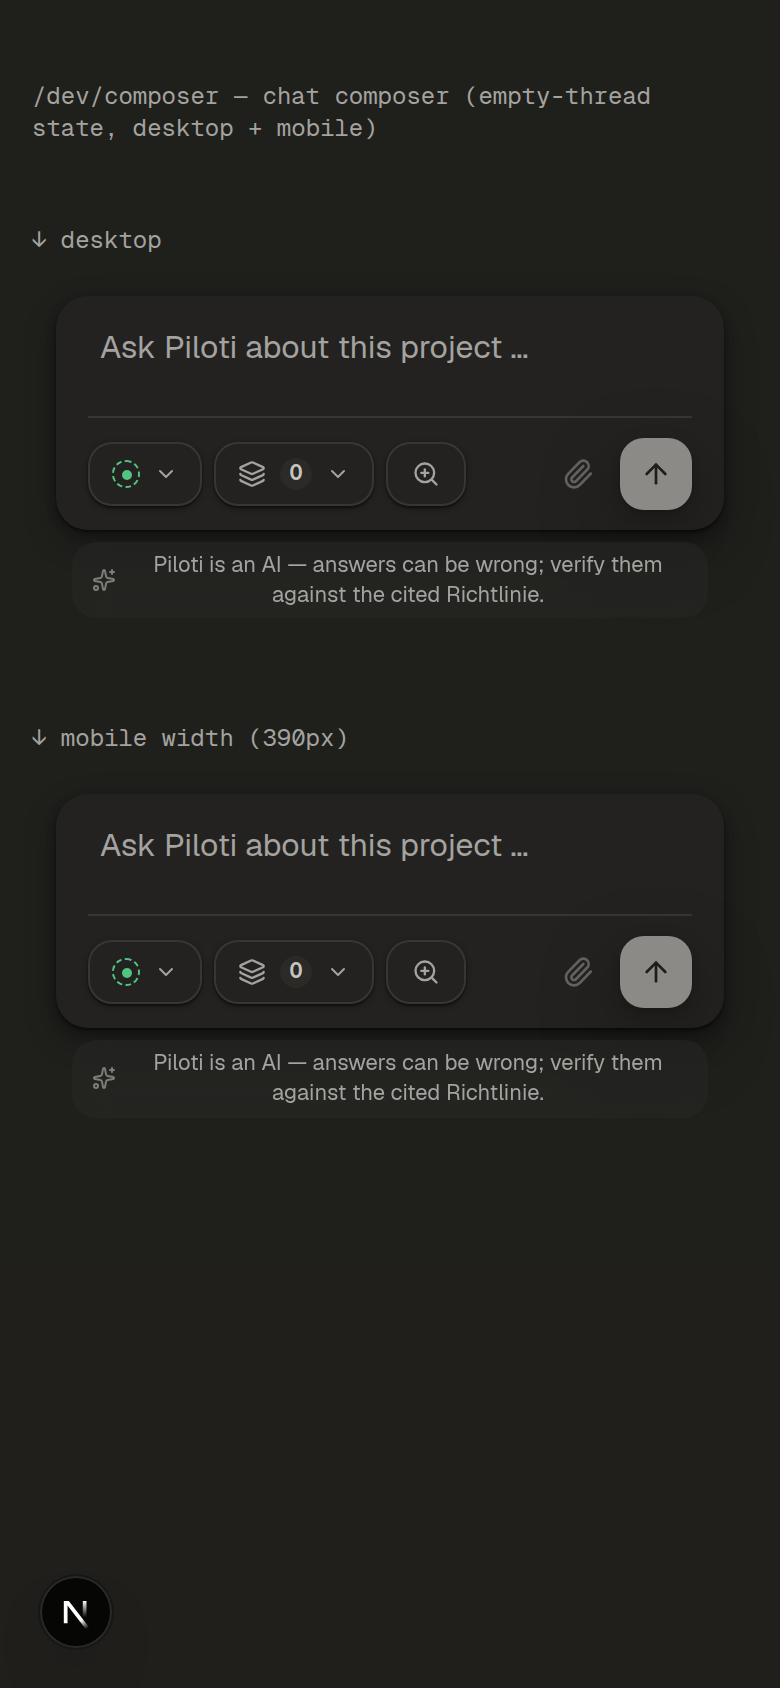
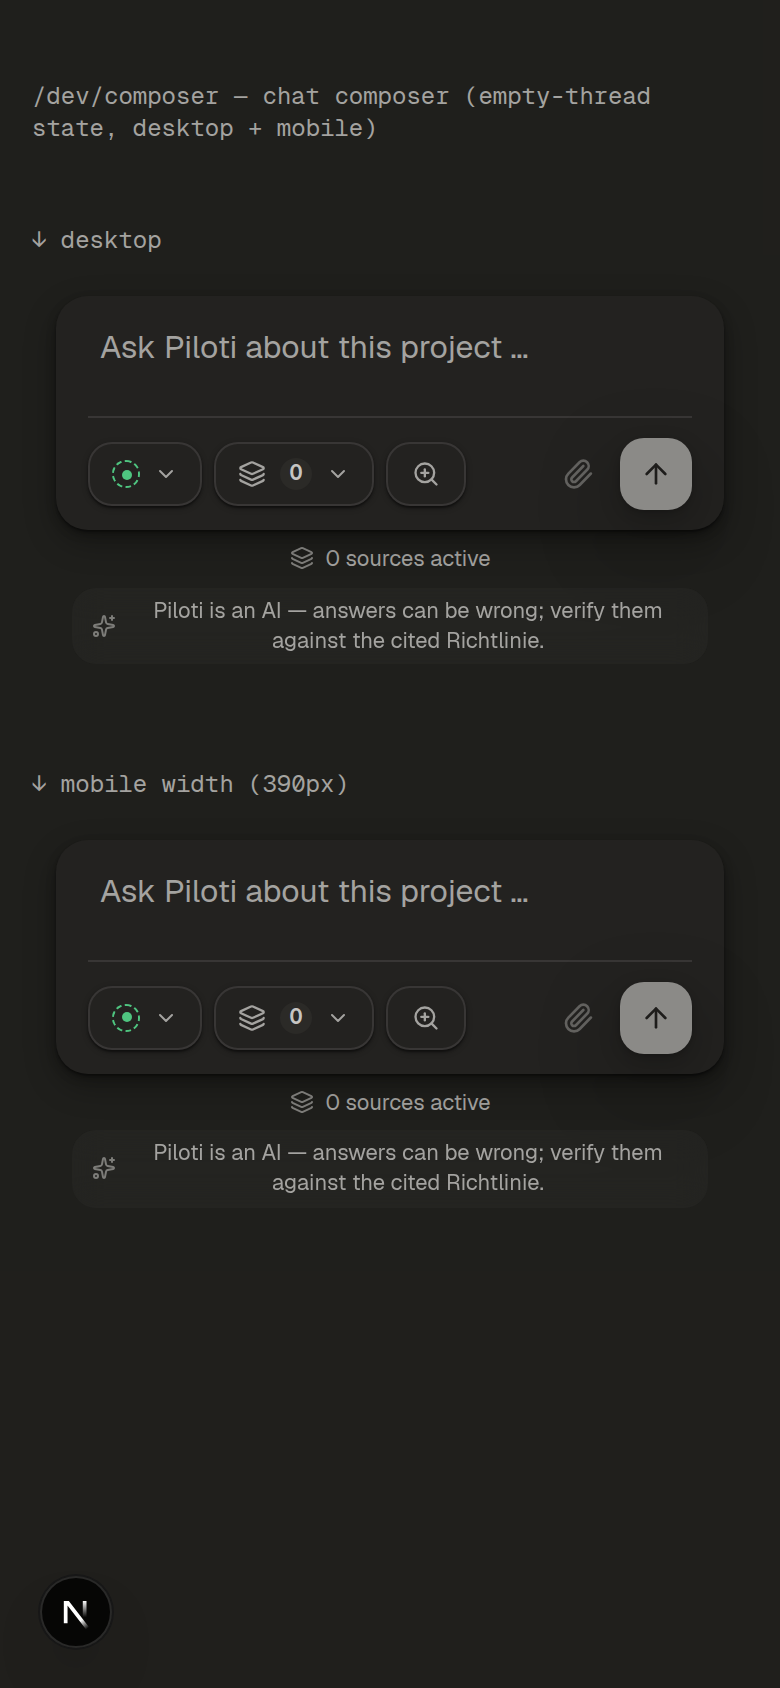
test(visual): dev routes + shots for welcome subtitle and post-research composer
Adds /dev/chat-welcome (real ChatArea empty state, backend-free) so the welcome
subtitle can be screenshotted, and a ?state=research-done seed on
/dev/composer-files that puts the composer in its locked, completed state to
capture the "Neue Sitzung starten" forward action + helper line. Registers
chat-welcome and composer-research-done targets and re-captures composer mobile
(now showing the mobile "{count} sources active" scope cue), light + dark.

Claude-Session: https://claude.ai/code/session_01TvaypjQbHY7fTapRAbBdjU

diff --git a/frontends/ui/src/app/dev/composer-files/page.tsx b/frontends/ui/src/app/dev/composer-files/page.tsx
@@ -8,9 +8,12 @@
  * an effect (backend-free). Not linked anywhere; 404s outside development.
  *
  * `?state=` selects an extra captured state:
- *   - (none)   → the composer with clickable chips + the mobile "manage" entry.
- *   - preview  → the shared read-only FilePreviewDialog opened from a chip.
- *   - sheet    → the mobile FileSourcesTab bottom-sheet (manage files).
+ *   - (none)        → the composer with clickable chips + the mobile "manage" entry.
+ *   - preview       → the shared read-only FilePreviewDialog opened from a chip.
+ *   - sheet         → the mobile FileSourcesTab bottom-sheet (manage files).
+ *   - research-done → the post-research composer: locked field + the explicit
+ *                     "Neue Sitzung starten" forward action and helper line
+ *                     (replaces the old no-op explanation popover).
  *
  * A module-scope fetch shim (browser + dev only) serves the file-preview URL and
  * visual-details payload so the preview pane renders fully backend-free — same
@@ -132,14 +135,32 @@ export default function ComposerFilesPreviewPage() {
   const [state, setState] = useState<string | null>(null)
 
   useEffect(() => {
-    setState(new URLSearchParams(window.location.search).get('state'))
+    const requested = new URLSearchParams(window.location.search).get('state')
+    setState(requested)
+    // The post-research state seeds a SUCCESSFUL deep-research answer so the
+    // composer derives its locked/completed state (isResearchSessionSuccessful)
+    // and shows the "Neue Sitzung starten" forward action + helper line.
+    const messages =
+      requested === 'research-done'
+        ? [
+            {
+              id: 'dr-1',
+              role: 'assistant' as const,
+              content: 'Recherchebericht erstellt.',
+              messageType: 'agent_response' as const,
+              deepResearchJobId: 'job-1',
+              deepResearchJobStatus: 'success' as const,
+              timestamp: new Date('2024-01-15T10:00:00Z'),
+            },
+          ]
+        : []
     useChatStore.setState({
       currentConversation: {
         id: CONV_ID,
         userId: 'dev',
         projectId: 'dev',
         title: 'Dev',
-        messages: [],
+        messages,
         createdAt: new Date('2024-01-15'),
         updatedAt: new Date('2024-01-15'),
       },

diff --git a/frontends/ui/src/app/dev/chat-welcome/page.tsx b/frontends/ui/src/app/dev/chat-welcome/page.tsx
@@ -1,0 +1,61 @@
+'use client'
+
+/**
+ * Chat welcome-state dev preview: the REAL ChatArea in its authenticated
+ * empty-thread state (WelcomeState) — the time-of-day greeting, the one-line
+ * subtitle telling a first-timer that answers cite their sources, and the
+ * example-question chips — rendered backend-free so the empty canvas can be
+ * reviewed and screenshotted at desktop + mobile (visual/registry.mjs →
+ * `chat-welcome`) in light + dark.
+ *
+ * Seeds an empty, hydrated conversation into the chat store so ChatArea shows
+ * the welcome state (not the hydration skeleton). `authRequired: false` makes
+ * useAuth return the default user without contacting WorkOS. Not linked
+ * anywhere; 404s outside development.
+ */
+
+import { useEffect, useState } from 'react'
+import { notFound } from 'next/navigation'
+import { AppConfigProvider, type AppConfig } from '@/shared/context'
+import { getFileUploadConfigFromEnv } from '@/shared/config/file-upload'
+import { ChatArea } from '@/features/layout/components'
+import { useChatStore } from '@/features/chat'
+
+const config: AppConfig = {
+  authRequired: false,
+  fileUpload: getFileUploadConfigFromEnv(),
+}
+
+export default function ChatWelcomePreviewPage() {
+  if (process.env.NODE_ENV !== 'development') {
+    notFound()
+  }
+
+  // Seed after mount (server + first client render agree → no hydration
+  // mismatch): an empty, already-hydrated conversation so ChatArea renders the
+  // WelcomeState rather than the loading skeleton.
+  const [ready, setReady] = useState(false)
+  useEffect(() => {
+    useChatStore.setState({
+      currentConversation: {
+        id: 'dev-welcome-conv',
+        userId: 'dev',
+        projectId: 'dev',
+        title: 'Dev',
+        messages: [],
+        createdAt: new Date('2024-01-15'),
+        updatedAt: new Date('2024-01-15'),
+      },
+      hasHydrated: true,
+    })
+    setReady(true)
+  }, [])
+
+  return (
+    <AppConfigProvider config={config}>
+      <main className="bg-background flex h-dvh flex-col">
+        {ready && <ChatArea isAuthenticated />}
+      </main>
+    </AppConfigProvider>
+  )
+}
